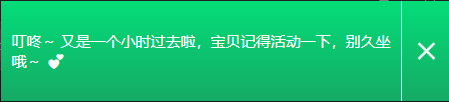
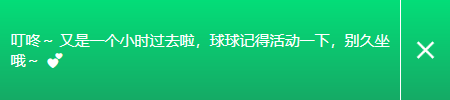
feat: 更新彩蛋截图

Changed region(s): [[0.0, 0.0, 1.0, 1.0], [0.0, 0.51, 0.1559, 0.69]]

diff --git a/src/ViewModel/MainWindowViewModel.cs b/src/ViewModel/MainWindowViewModel.cs
@@ -520,7 +520,7 @@ namespace NC.SalaryCalculator.ViewModel
                 case 13: return "球球要乖乖午休哦~ 休息一下才有精神继续发光发热 🐷💤";
                 case 14: return "起床啦懒猪~ 午觉时间结束！一起打起精神继续加油吧 🐱🌼";
                 case 17: return "叮～ 球球快下班~ 收拾收拾准备回家咯~ 今天也辛苦啦！🏡❤";
-                default: return "叮咚～ 又是一个小时过去啦，宝贝记得活动一下，别久坐哦～ 💕";
+                default: return "叮咚～ 又是一个小时过去啦，球球记得活动一下，别久坐哦～ 💕";
             }
         }
         #endregion
